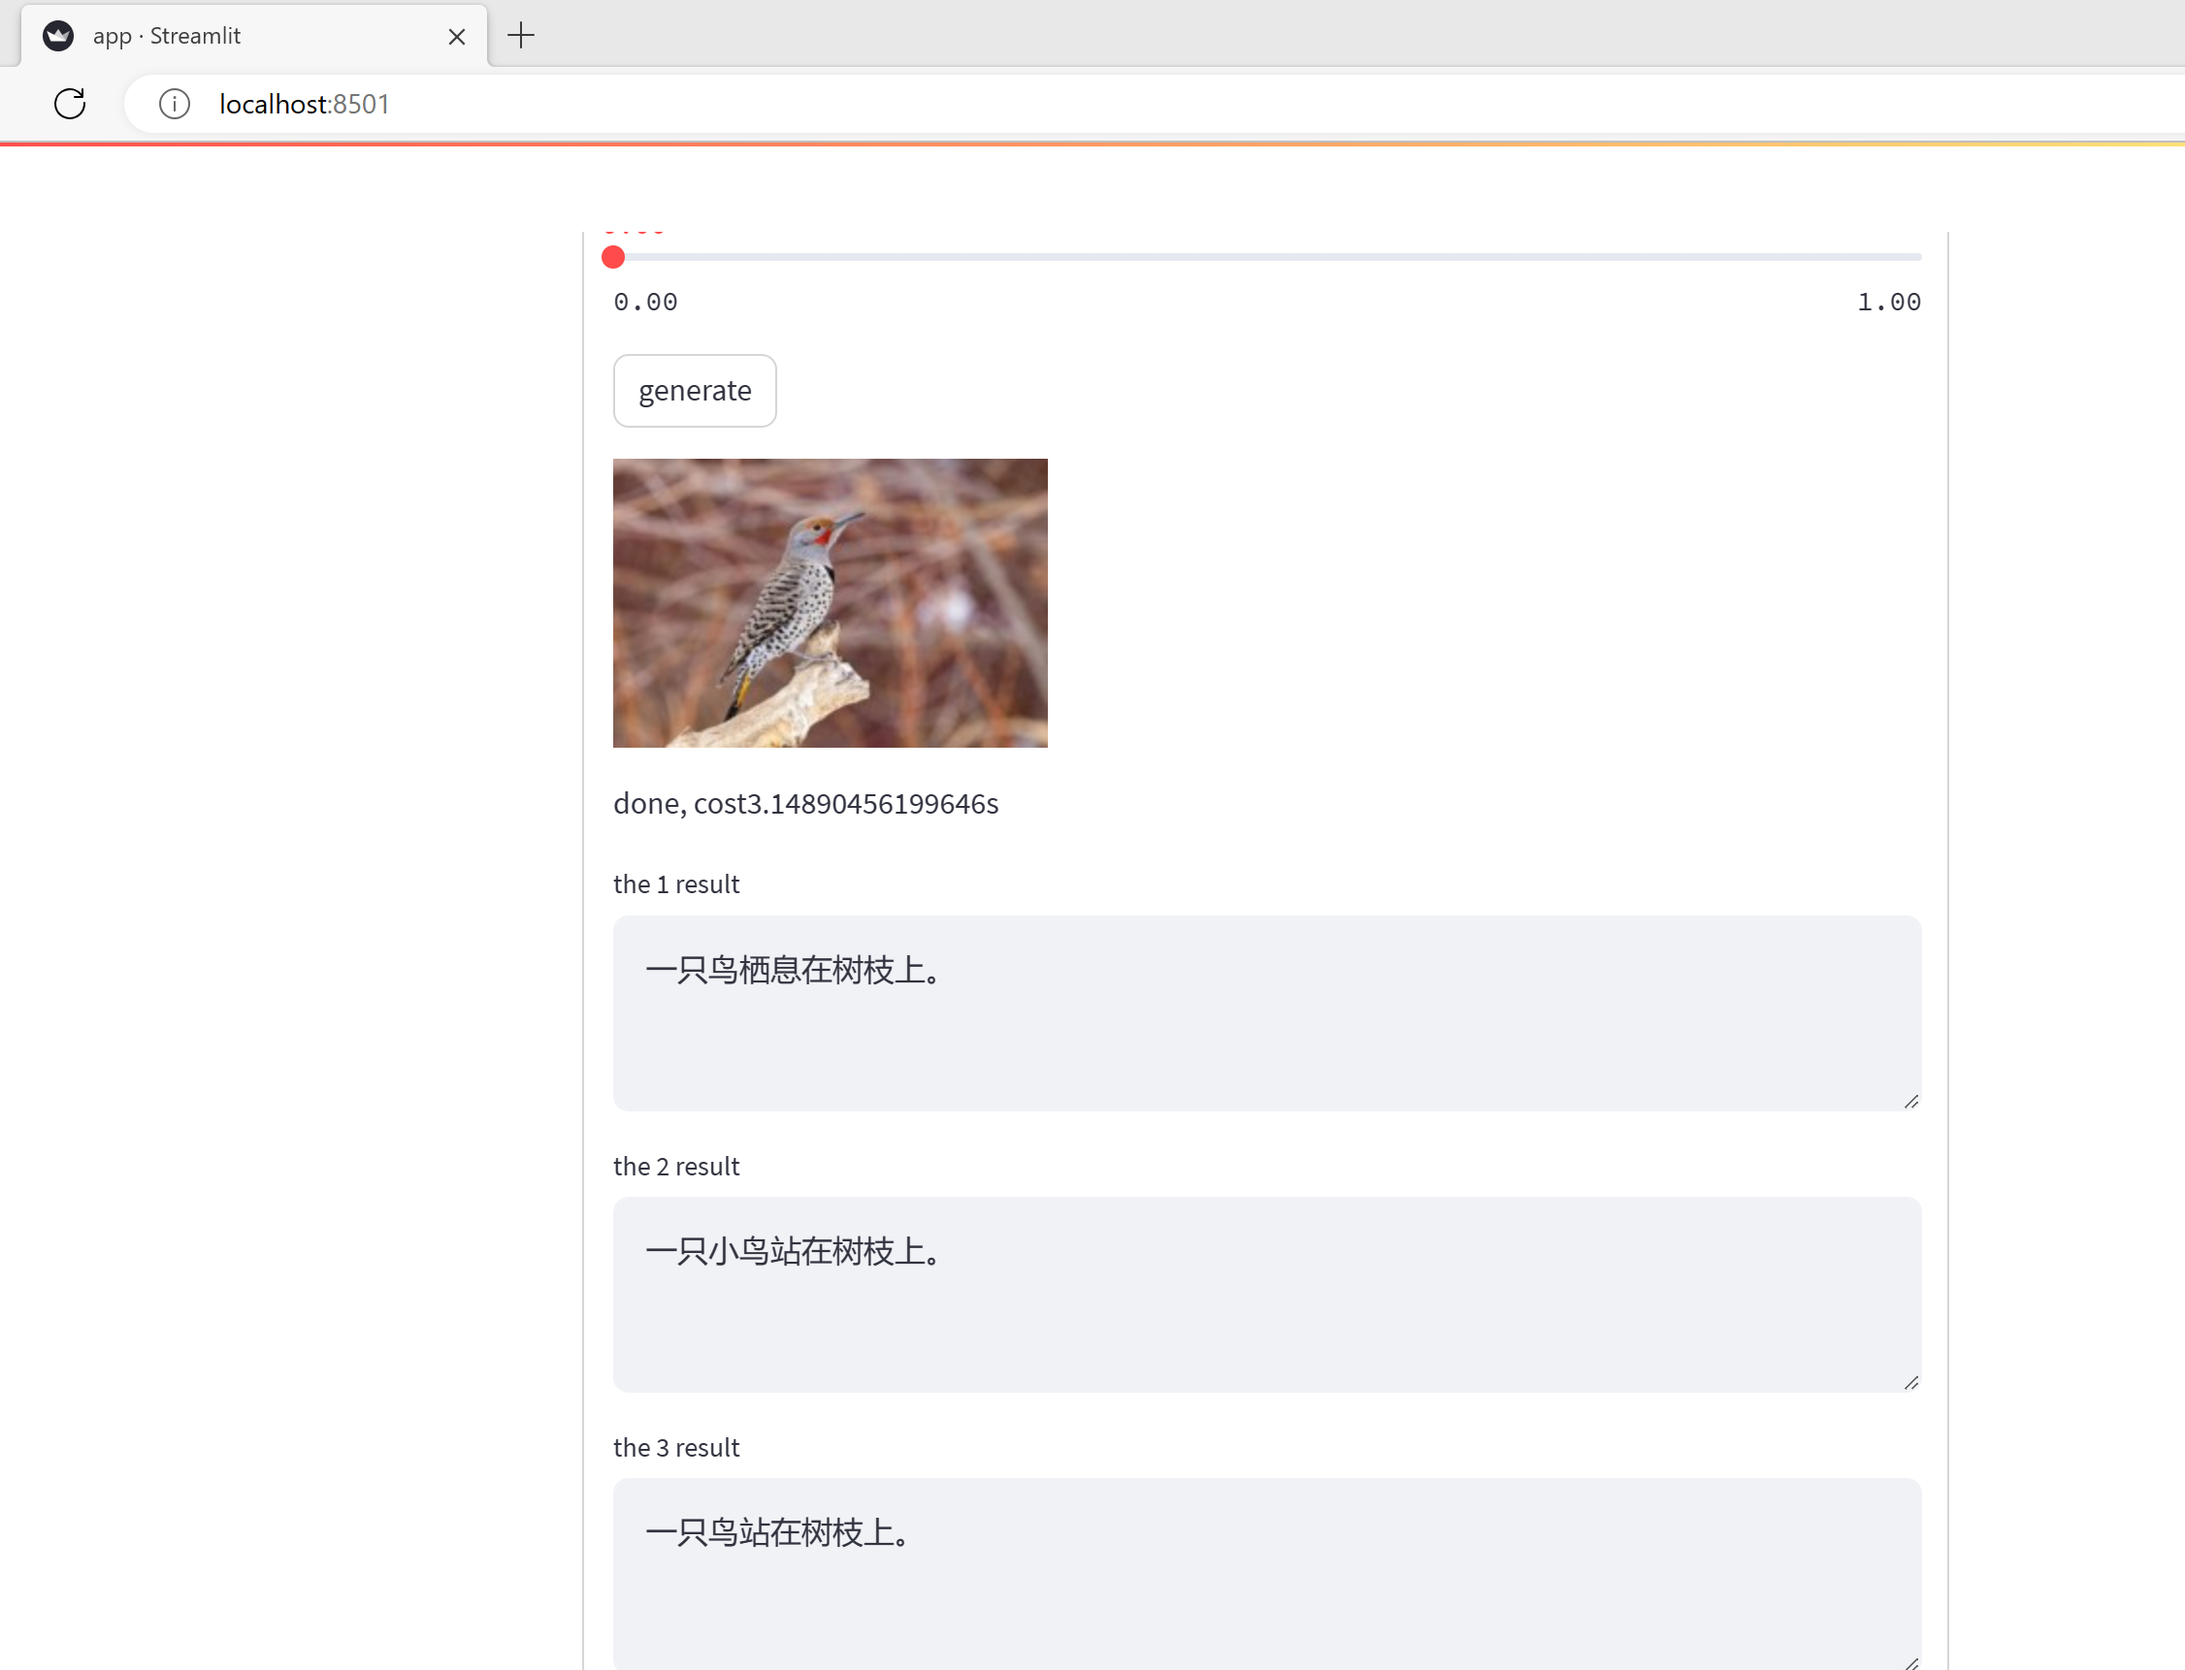
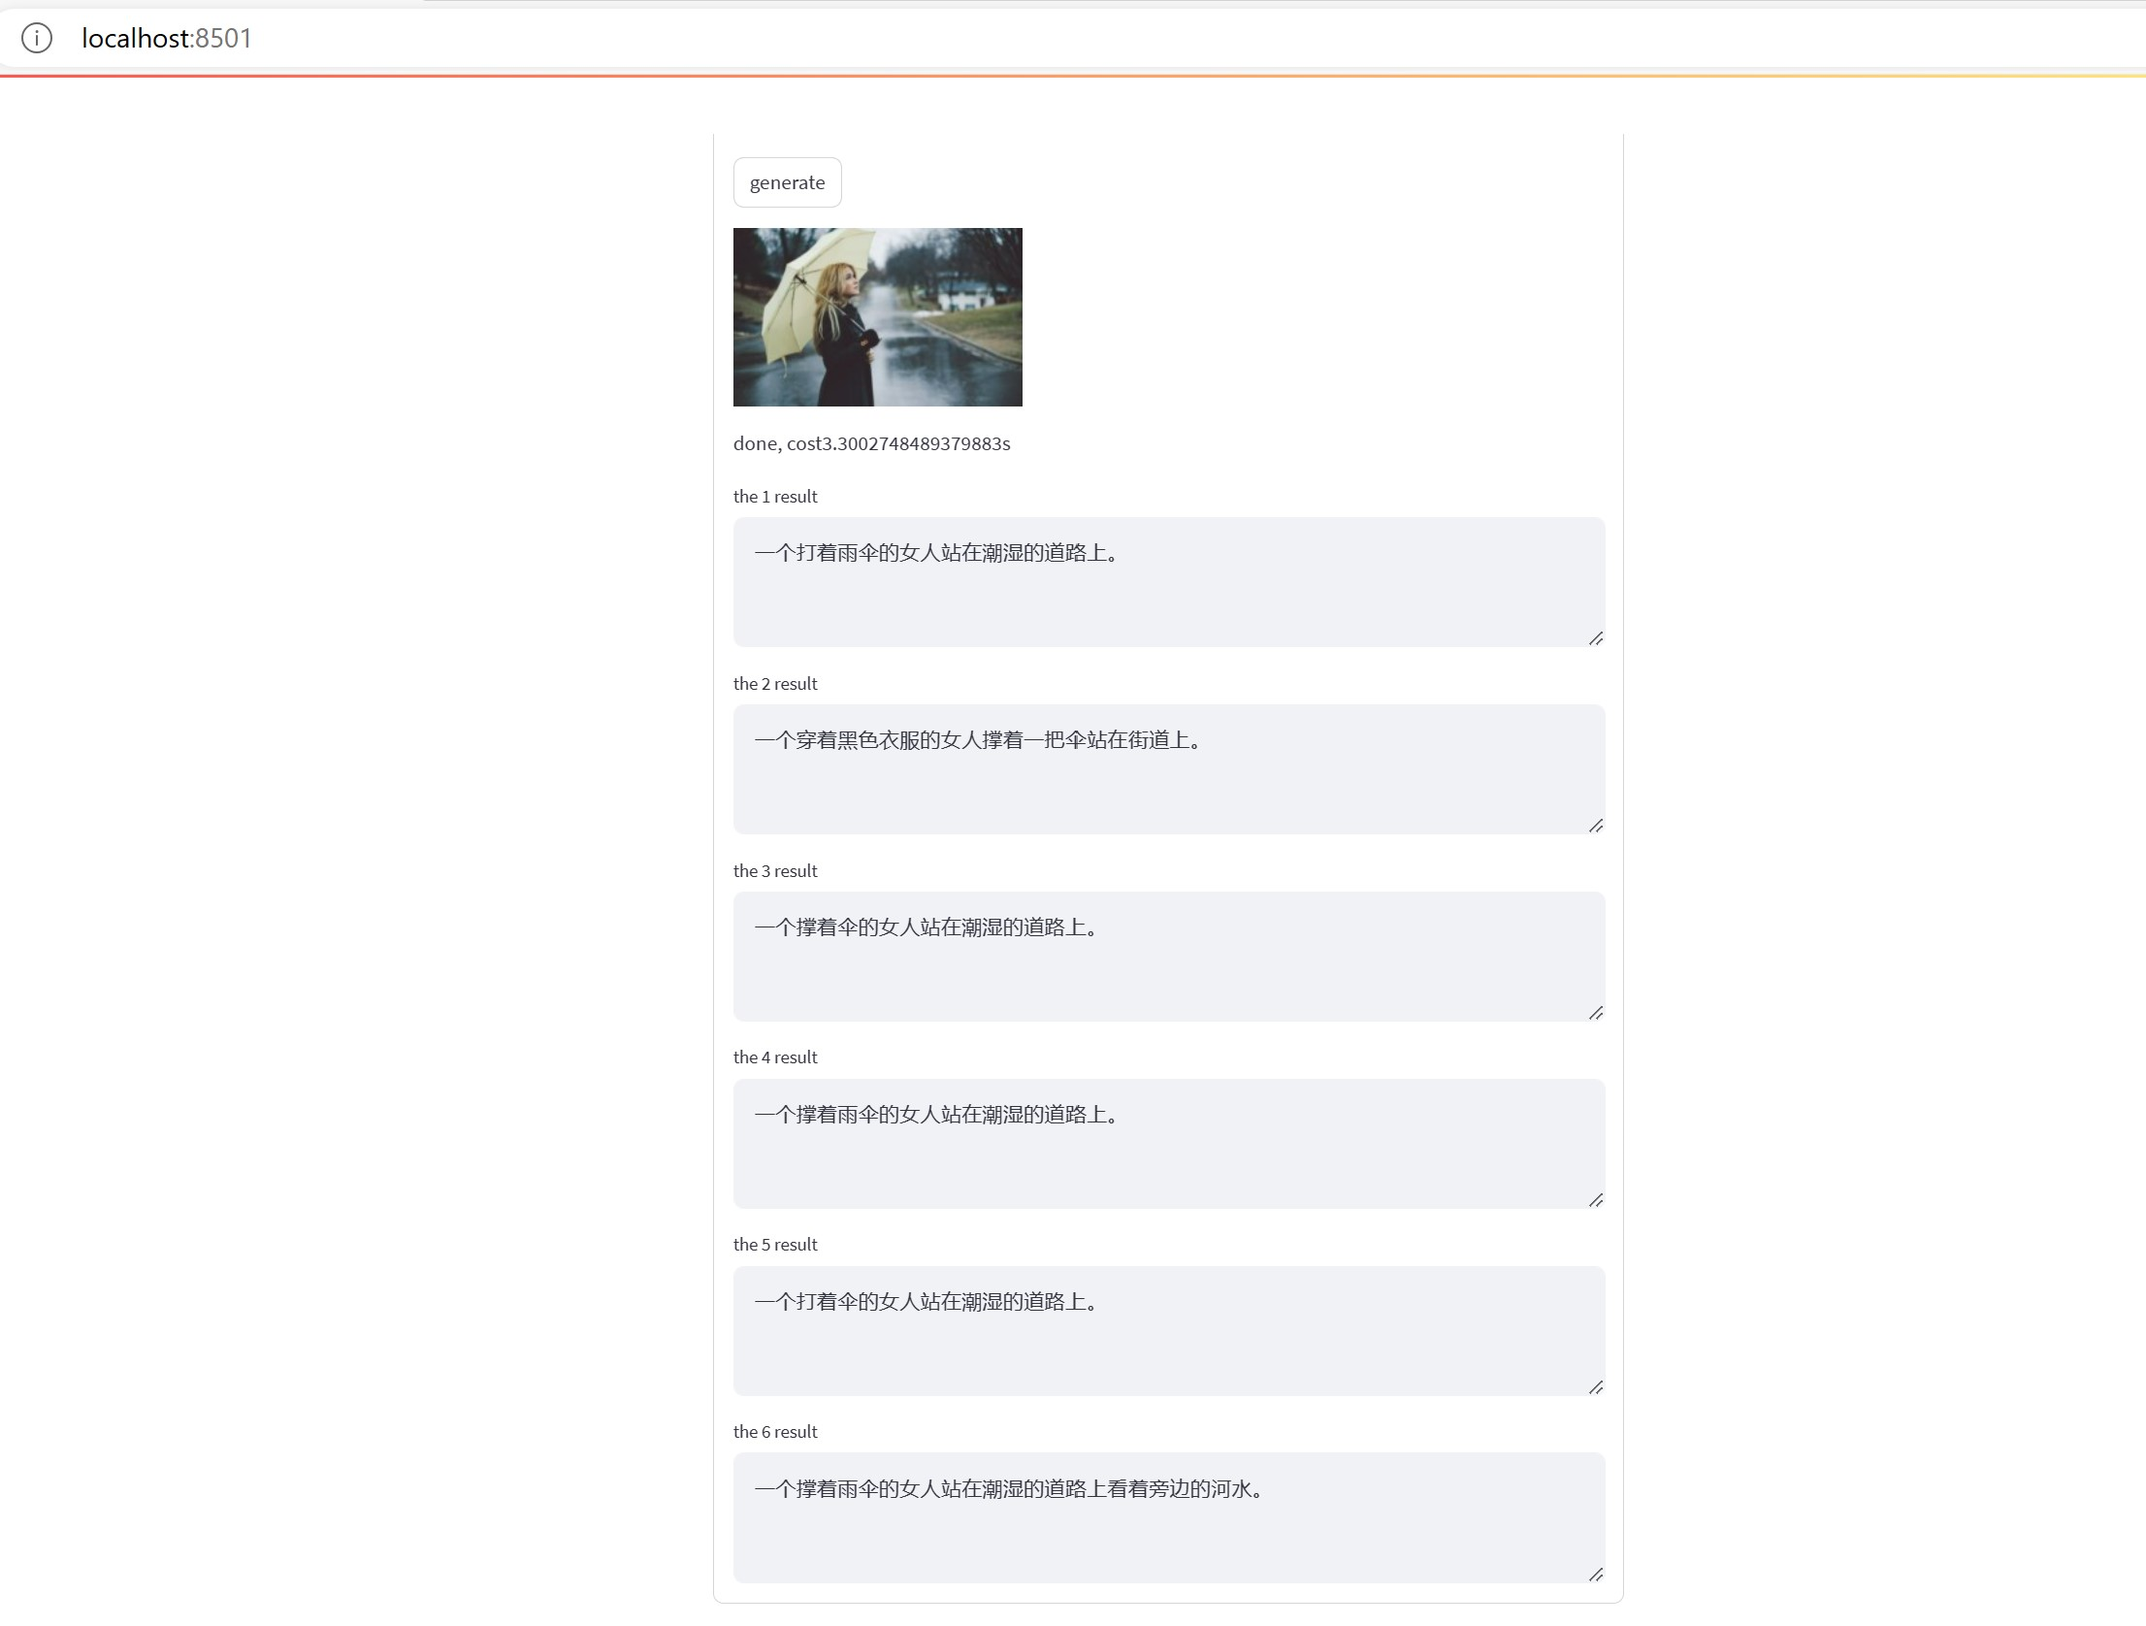
update model

diff --git a/README.md b/README.md
@@ -2,6 +2,10 @@
 
 This repo trained Chinese image caption model. The model use Encoder(VIT)-Decoder(GPT) architecture. I merged all AIGICC (train,val, test), Coco-CN(train,val, test) and flickr30k-cn(train,val, test) to train this model.
 
+v2: The v2 version of the model can generate more detailed descriptions.
+![image](pic/streamlit2.png)
+
+v1:
 ![image](pic/streamlit.png)
 
 If you want to use the model and code, please refer to https://github.com/yaoxiaoyuan/mimix.
